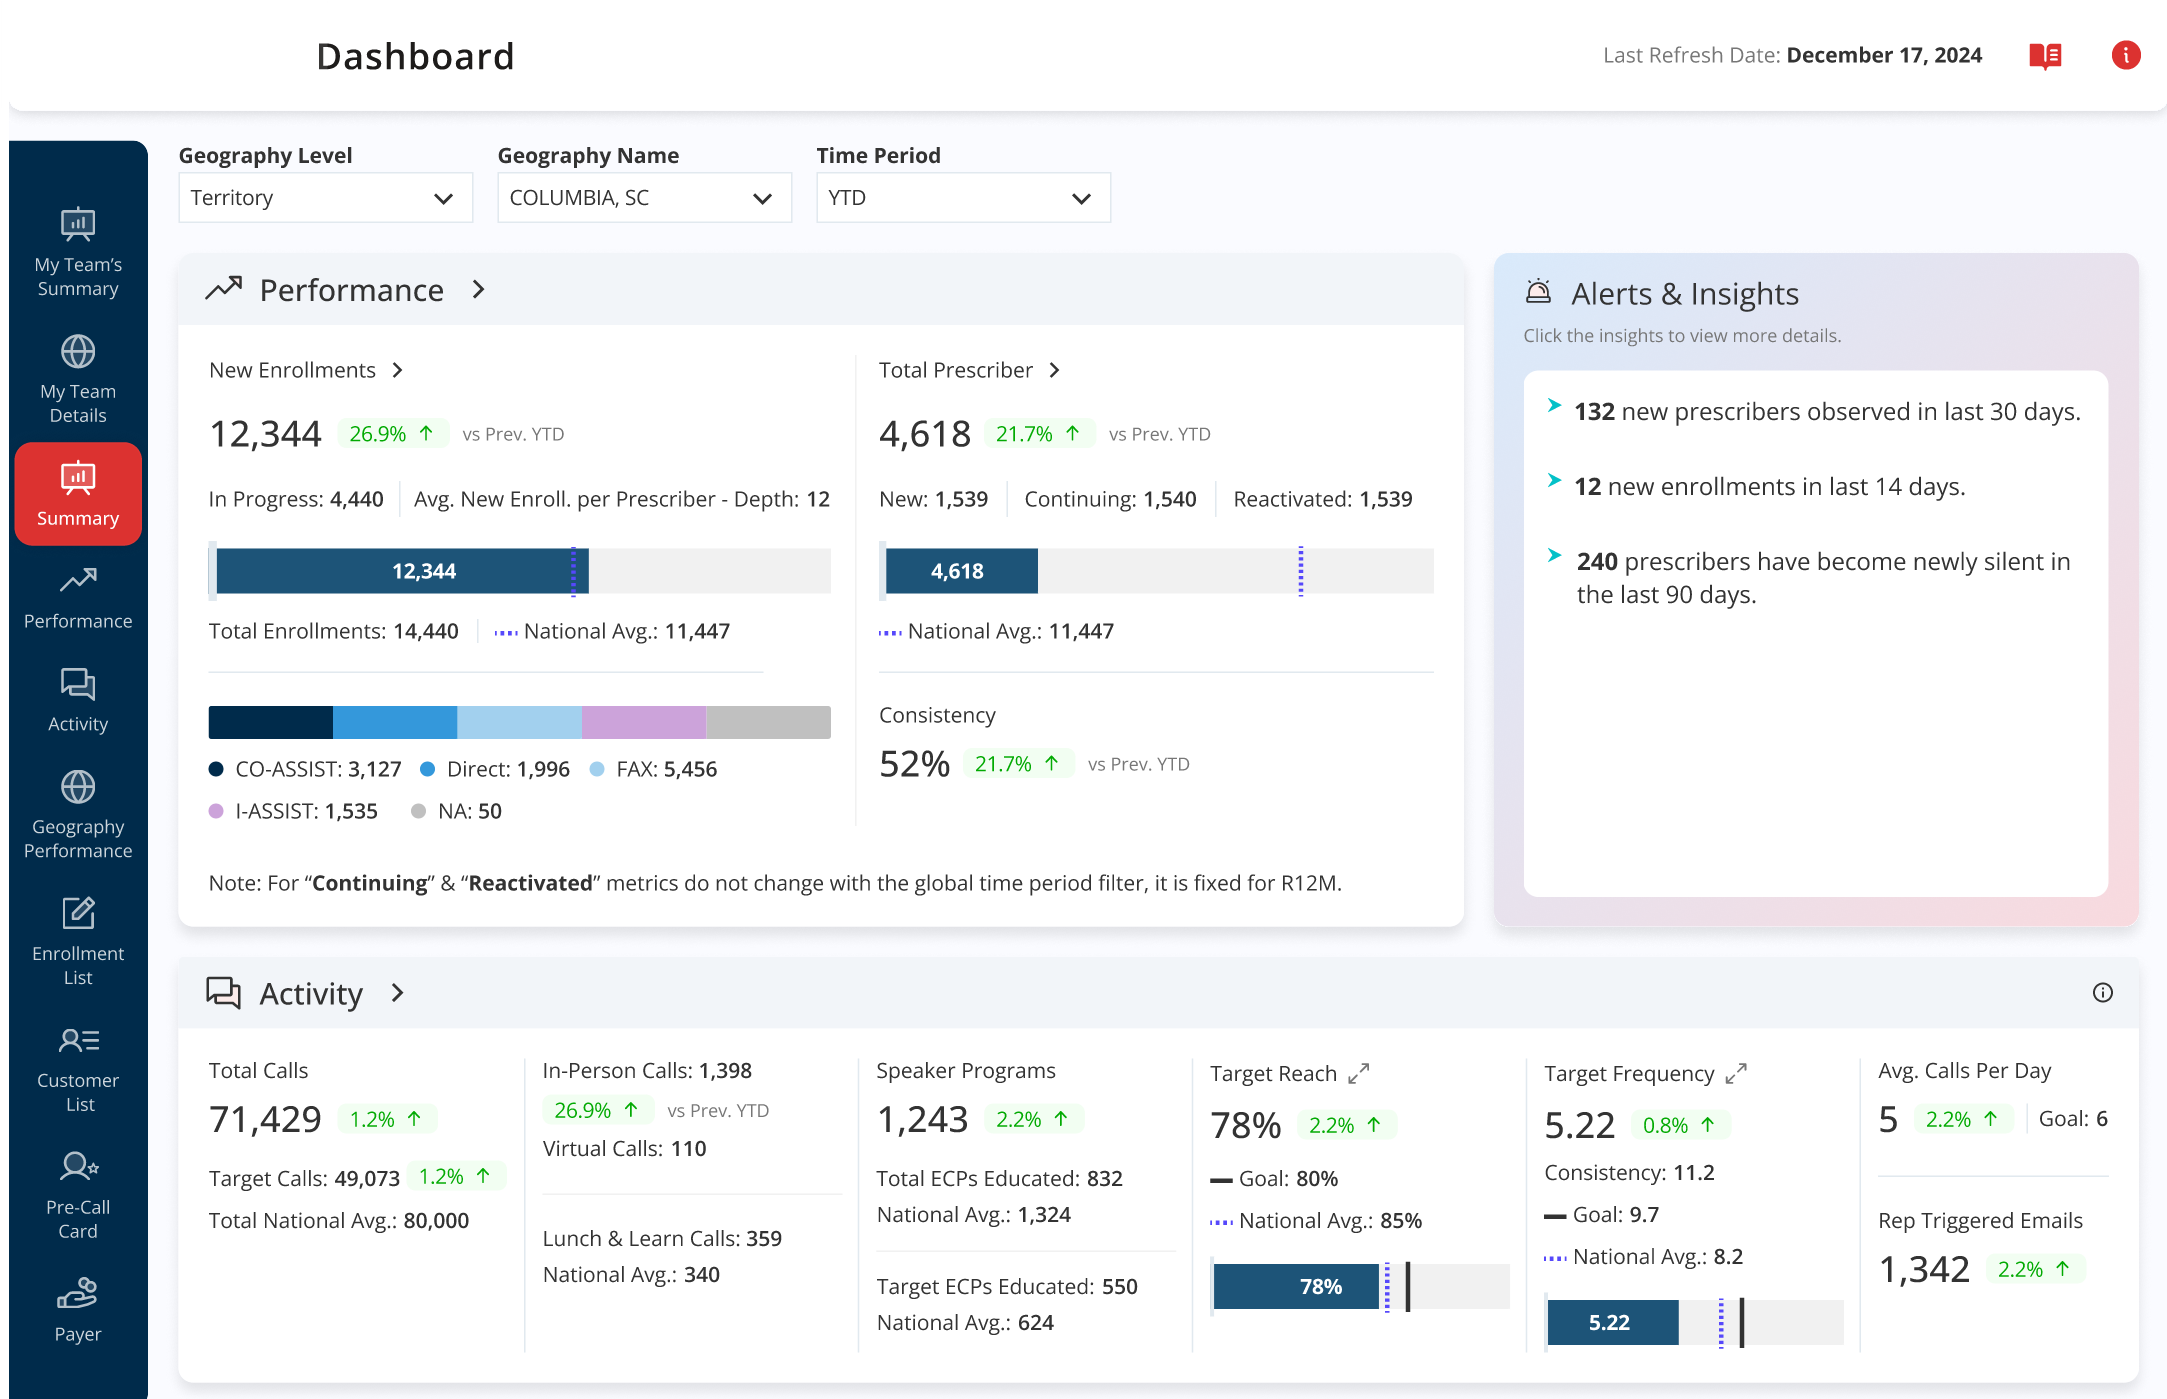
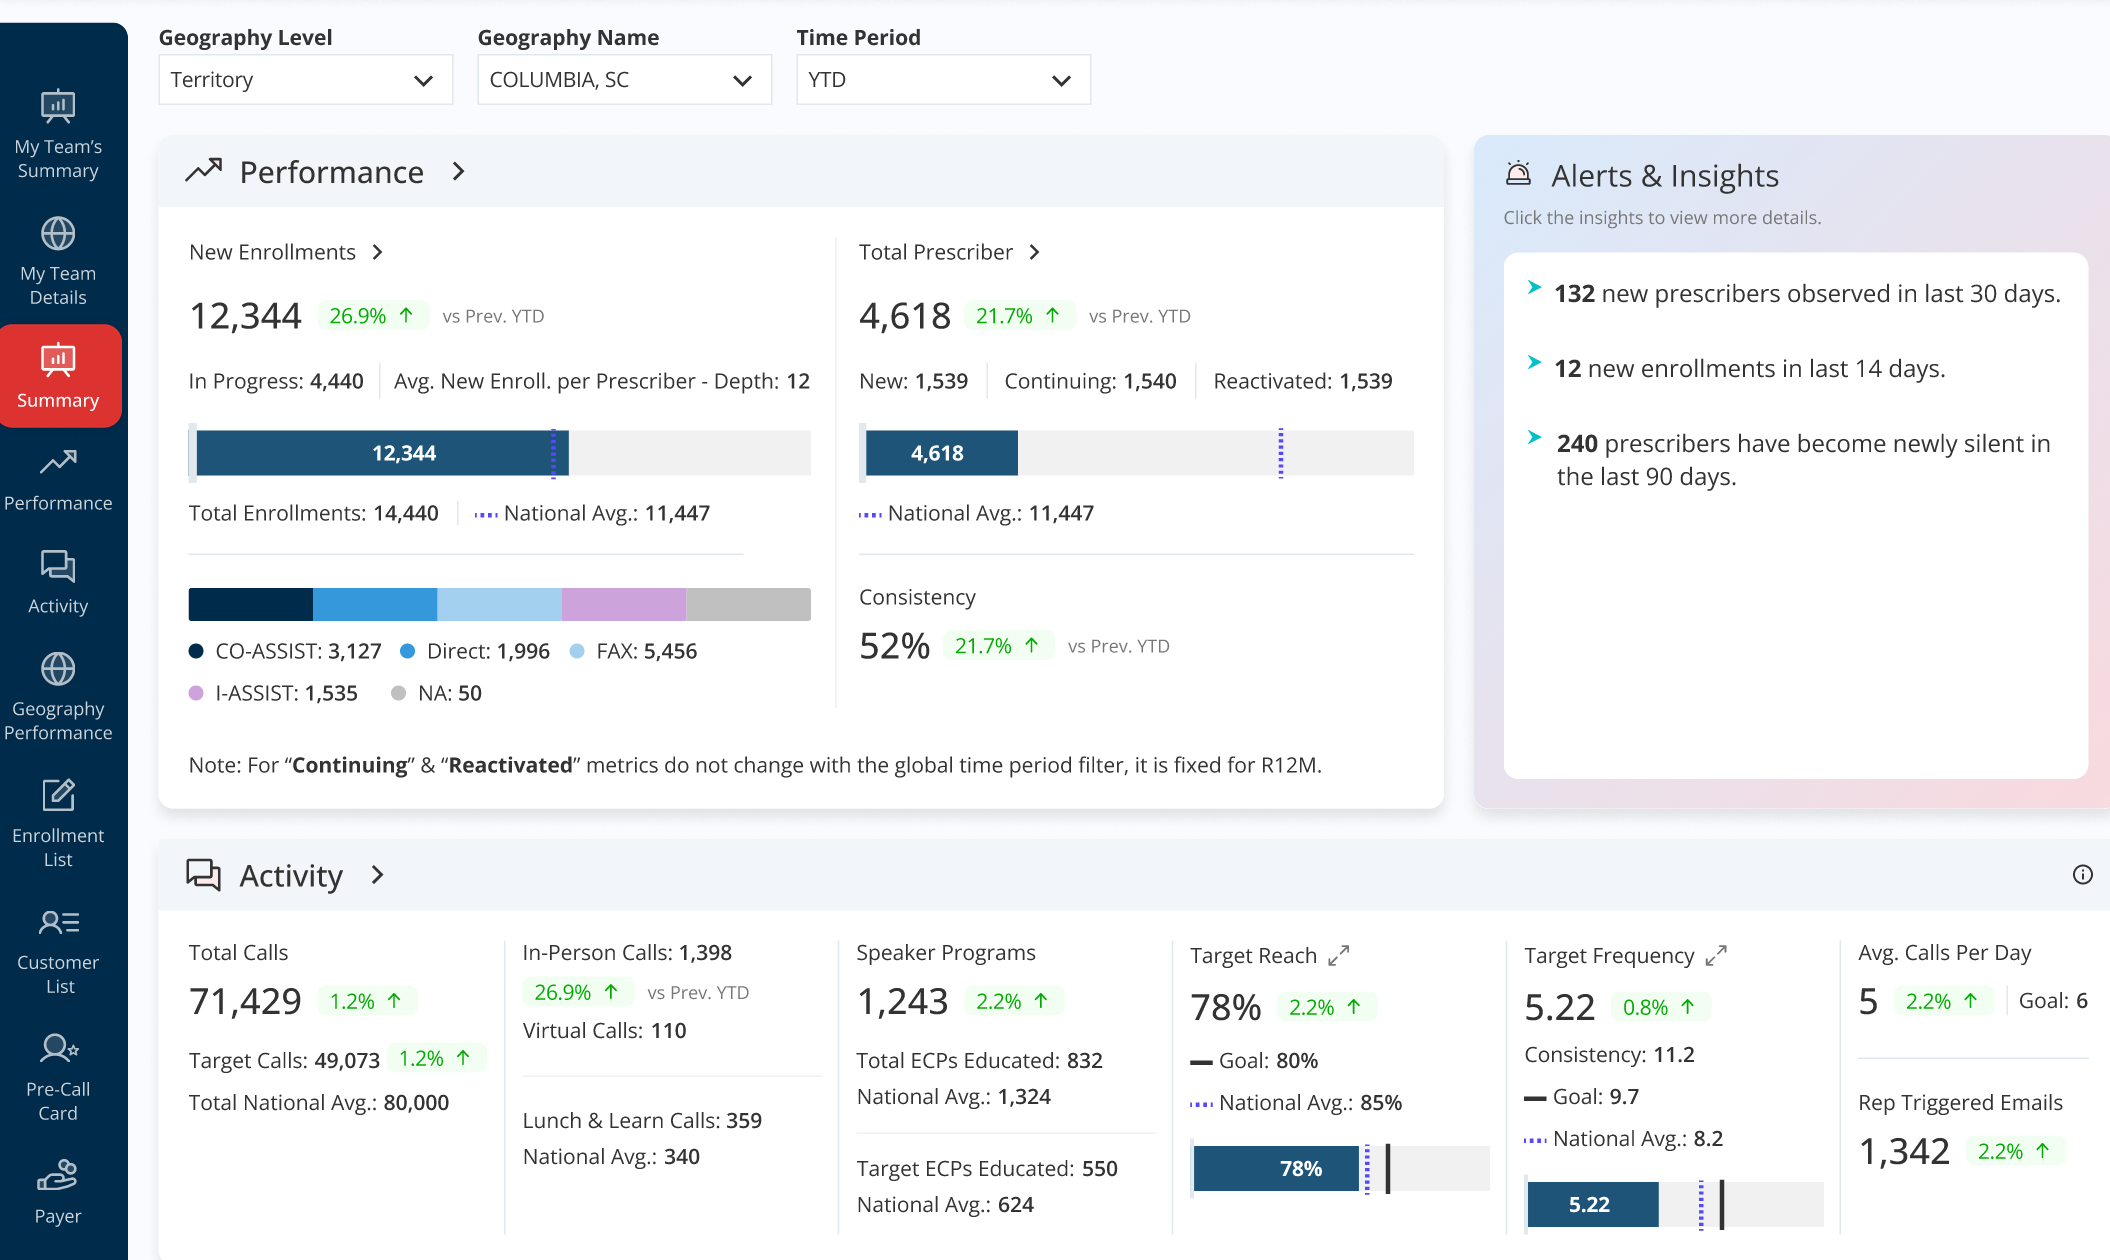
Add files via upload

diff --git a/index.html b/index.html
@@ -288,6 +288,19 @@ footer span{color:var(--accent);}
   .hero-badge::before{animation:none;}
   .ticker-track{animation:none;}
 }
+
+/* ── CAROUSEL ── */
+.carousel{position:relative;width:100%;height:100%;min-height:340px;overflow:hidden;background:var(--surface2);}
+.carousel-track{display:flex;height:100%;min-height:340px;transition:transform .45s cubic-bezier(.4,0,.2,1);}
+.carousel-slide{min-width:100%;height:100%;min-height:340px;flex-shrink:0;overflow:hidden;}
+.carousel-slide img{width:100%;height:100%;min-height:340px;object-fit:cover;object-position:top center;display:block;}
+.carousel-btn{position:absolute;top:50%;transform:translateY(-50%);background:rgba(13,15,26,.72);border:1px solid var(--border);color:var(--text);font-size:22px;width:36px;height:36px;border-radius:50%;cursor:pointer;display:flex;align-items:center;justify-content:center;z-index:10;transition:background .2s,border-color .2s;line-height:1;padding:0;}
+.carousel-btn:hover{background:var(--accent);border-color:var(--accent);color:#0D0F1A;}
+.carousel-prev{left:10px;}
+.carousel-next{right:10px;}
+.carousel-dots{position:absolute;bottom:10px;left:50%;transform:translateX(-50%);display:flex;gap:6px;z-index:10;}
+.carousel-dot{width:7px;height:7px;border-radius:50%;background:rgba(255,255,255,.35);cursor:pointer;transition:background .2s,transform .2s;}
+.carousel-dot.active{background:var(--accent);transform:scale(1.2);}
 </style>
 </head>
 <body>
@@ -605,13 +618,17 @@ footer span{color:var(--accent);}
 
   <!-- PROJECT 1 -->
   <div class="project-feature reveal">
-    <div class="proj-img">
-      <img src="Summary.png" alt="Field Sales Dashboard — Summary page showing KPI cards, enrollment metrics and activity section"      style="width:100%;height:100%;object-fit:cover;object-position:top;display:block;min-height:340px;"/>
-        <div class="icon" aria-hidden="true">📊</div>
-        <div style="font-weight:600;color:var(--text);">Field Sales Dashboard</div>
-        <div>US Pharma / CAR-T Therapy</div>
-        <div style="font-size:9px;color:var(--border);margin-top:8px;">
-          Add screenshot: &lt;img src="field-dashboard.png" alt="Field Sales Dashboard"/&gt;
+    <div class="proj-img" style="min-height:340px;overflow:hidden;position:relative;">
+      <div class="carousel" id="carousel1">
+        <div class="carousel-track">
+          <div class="carousel-slide"><img src="Summary.png" alt="KAM Dashboard — Summary page: KPIs, enrollment metrics, activity section and Alerts" loading="lazy"/></div>
+          <div class="carousel-slide"><img src="performance.png" alt="KAM Dashboard — Performance page: enrollment trend chart and prescriber breakdown" loading="lazy"/></div>
+        </div>
+        <button class="carousel-btn carousel-prev" onclick="carouselMove('carousel1',-1)" aria-label="Previous screenshot">&#8249;</button>
+        <button class="carousel-btn carousel-next" onclick="carouselMove('carousel1',1)" aria-label="Next screenshot">&#8250;</button>
+        <div class="carousel-dots" id="carousel1-dots">
+          <span class="carousel-dot active" onclick="carouselGo('carousel1',0)"></span>
+          <span class="carousel-dot" onclick="carouselGo('carousel1',1)"></span>
         </div>
       </div>
       <div class="proj-tag-overlay">
@@ -658,13 +675,17 @@ footer span{color:var(--accent);}
 
   <!-- PROJECT 2 -->
   <div class="project-feature reverse reveal">
-    <div class="proj-img">
-      <img src="performance.png" alt="KAM Field Sales Dashboard — Performance page showing enrollment trend chart and prescriber metrics" style="width:100%;height:100%;object-fit:cover;object-position:top;display:block;min-height:340px;"/>
-        <div class="icon" aria-hidden="true">🏥</div>
-        <div style="font-weight:600;color:var(--text);">KAM Field Sales Reporting</div>
-        <div>US Healthcare / Ophthalmology</div>
-        <div style="font-size:9px;color:var(--border);margin-top:8px;">
-          Add screenshot: &lt;img src="kam-dashboard.png" alt="KAM Dashboard"/&gt;
+    <div class="proj-img" style="min-height:340px;overflow:hidden;position:relative;">
+      <div class="carousel" id="carousel2">
+        <div class="carousel-track">
+          <div class="carousel-slide"><img src="arc_perf.png" alt="KAM Dashboard — third page screenshot" loading="lazy"/></div>
+          <div class="carousel-slide"><img src="arc_pcc.png" alt="KAM Dashboard — fourth page screenshot" loading="lazy"/></div>
+        </div>
+        <button class="carousel-btn carousel-prev" onclick="carouselMove('carousel2',-1)" aria-label="Previous screenshot">&#8249;</button>
+        <button class="carousel-btn carousel-next" onclick="carouselMove('carousel2',1)" aria-label="Next screenshot">&#8250;</button>
+        <div class="carousel-dots" id="carousel2-dots">
+          <span class="carousel-dot active" onclick="carouselGo('carousel2',0)"></span>
+          <span class="carousel-dot" onclick="carouselGo('carousel2',1)"></span>
         </div>
       </div>
       <div class="proj-tag-overlay">
@@ -975,6 +996,44 @@ setTimeout(() => {
   animateCount(document.getElementById('kpi2'), 32240);
   animateCount(document.getElementById('kpi3'), 72561);
 }, 700);
+
+// ── CAROUSEL ──
+const carouselState = {};
+
+function carouselInit(id) {
+  const slides = document.querySelectorAll(`#${id} .carousel-slide`);
+  carouselState[id] = { index: 0, total: slides.length };
+}
+
+function carouselGo(id, index) {
+  const state = carouselState[id];
+  if (!state) return;
+  state.index = Math.max(0, Math.min(index, state.total - 1));
+  const track = document.querySelector(`#${id} .carousel-track`);
+  if (track) track.style.transform = `translateX(-${state.index * 100}%)`;
+  document.querySelectorAll(`#${id}-dots .carousel-dot`).forEach((d, i) => {
+    d.classList.toggle('active', i === state.index);
+  });
+}
+
+function carouselMove(id, dir) {
+  const state = carouselState[id];
+  if (!state) return;
+  const next = (state.index + dir + state.total) % state.total;
+  carouselGo(id, next);
+}
+
+// auto-advance every 4 seconds
+function carouselAutoPlay(id, interval) {
+  setInterval(() => carouselMove(id, 1), interval);
+}
+
+['carousel1', 'carousel2'].forEach(id => {
+  if (document.getElementById(id)) {
+    carouselInit(id);
+    carouselAutoPlay(id, 4000);
+  }
+});
 </script>
 </body>
 </html>